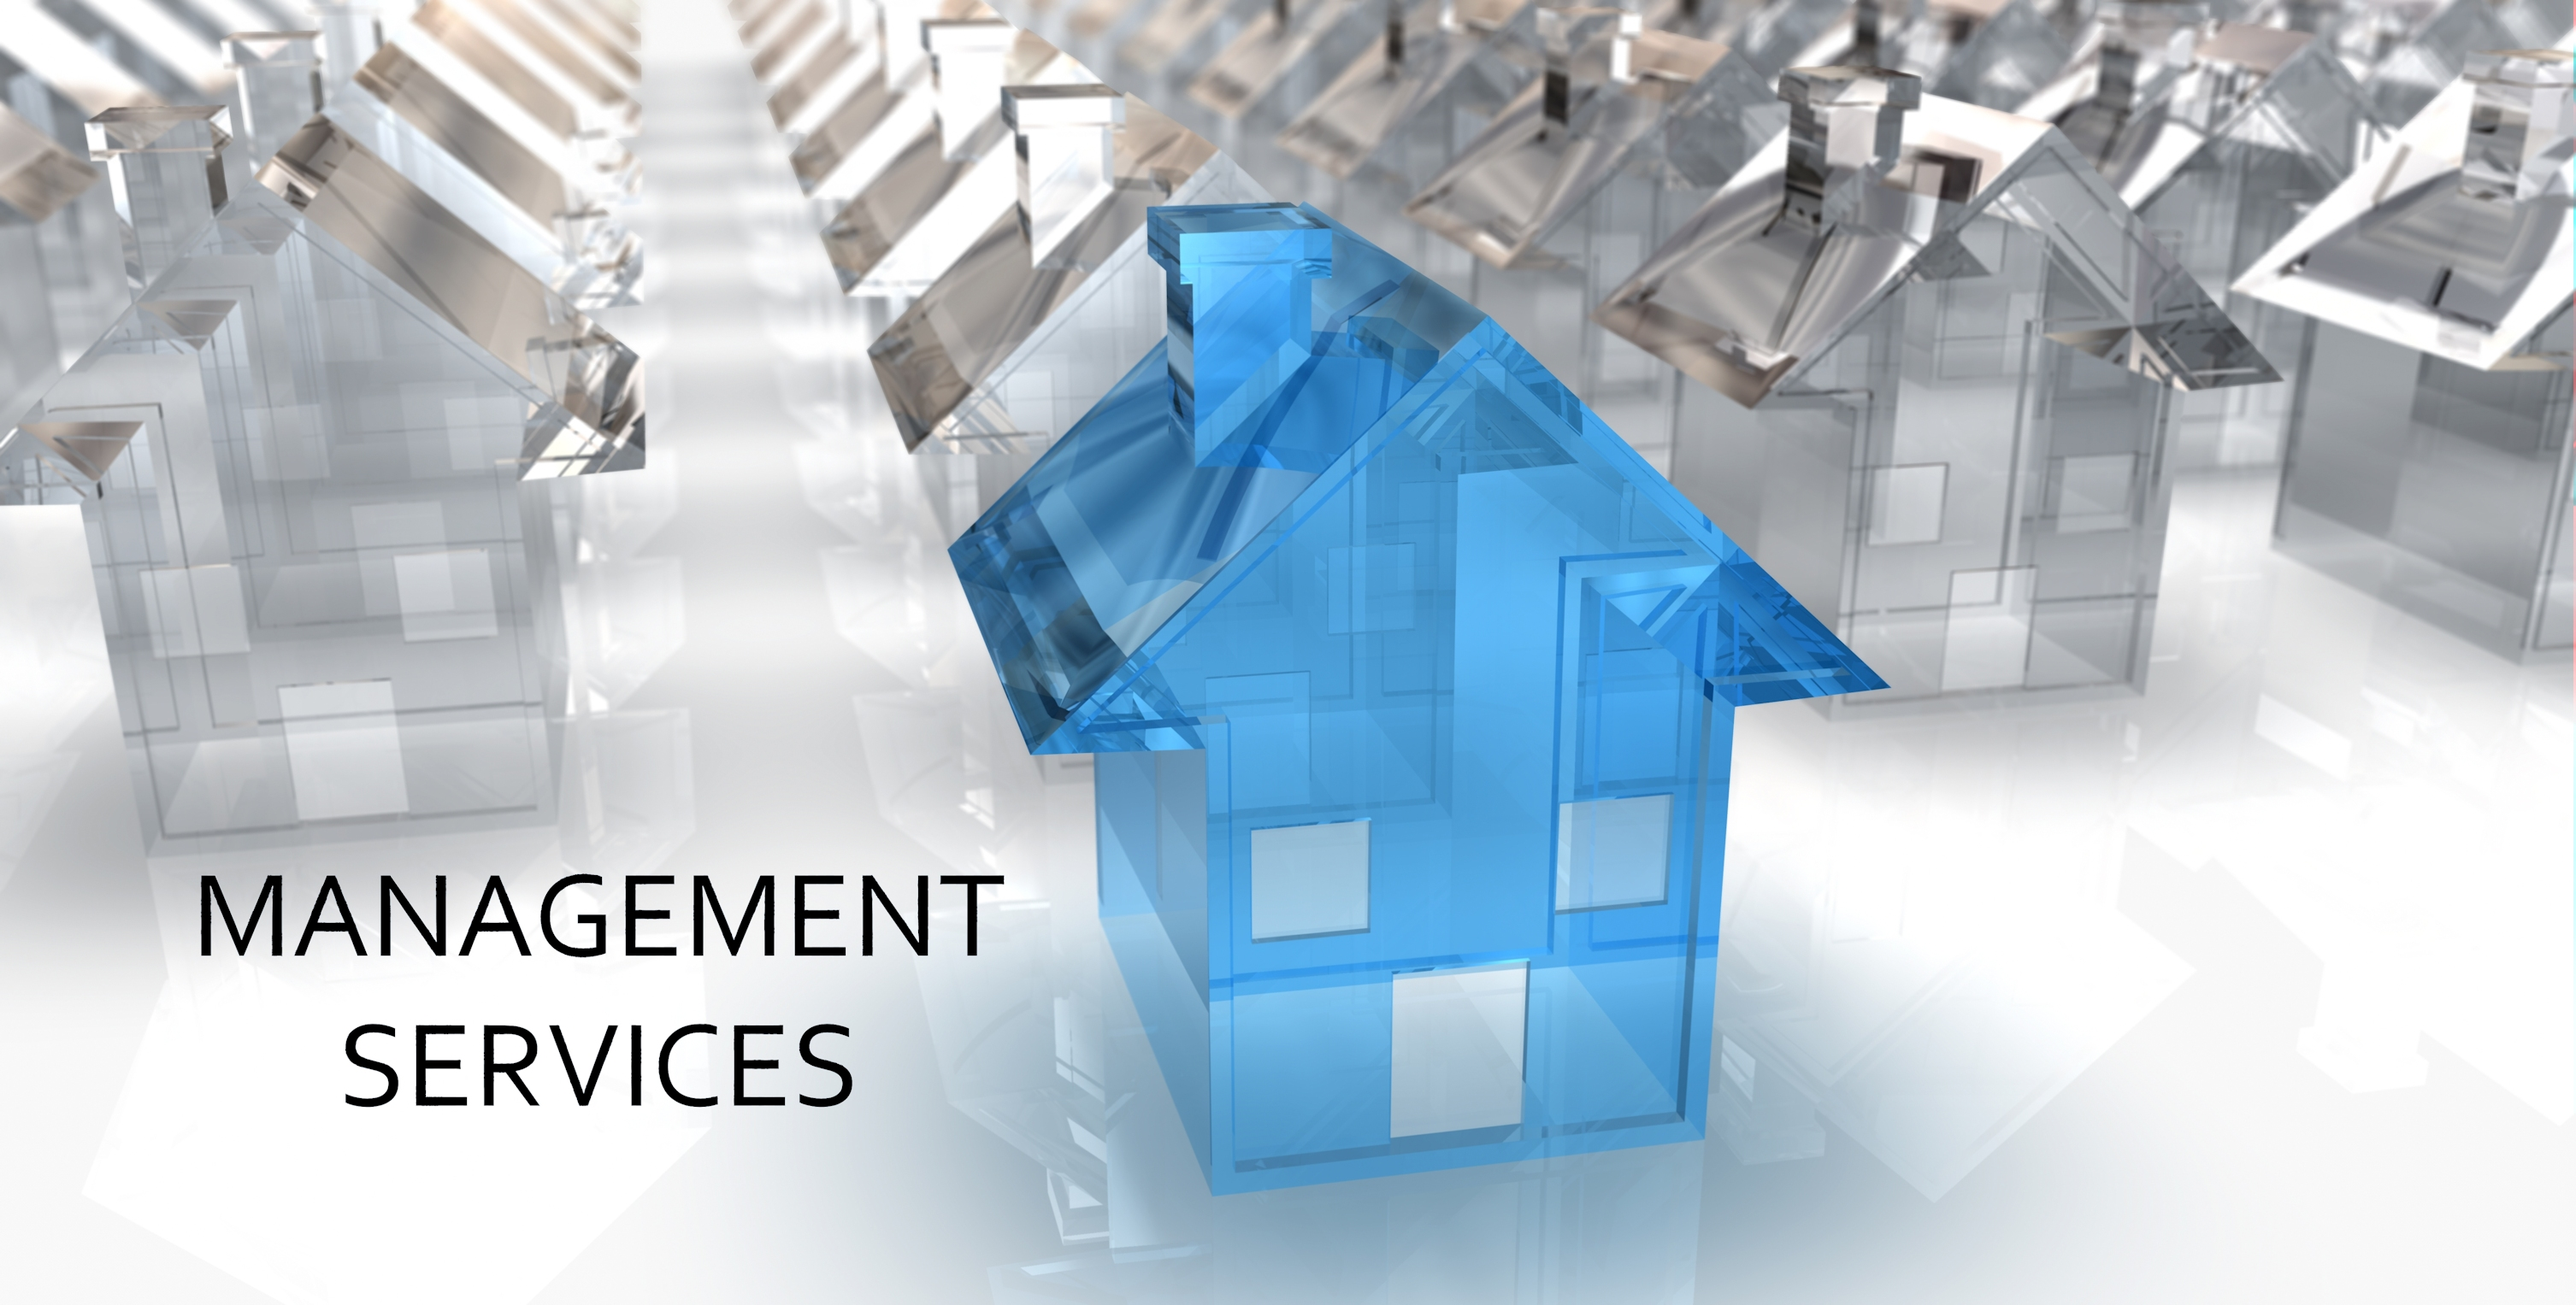
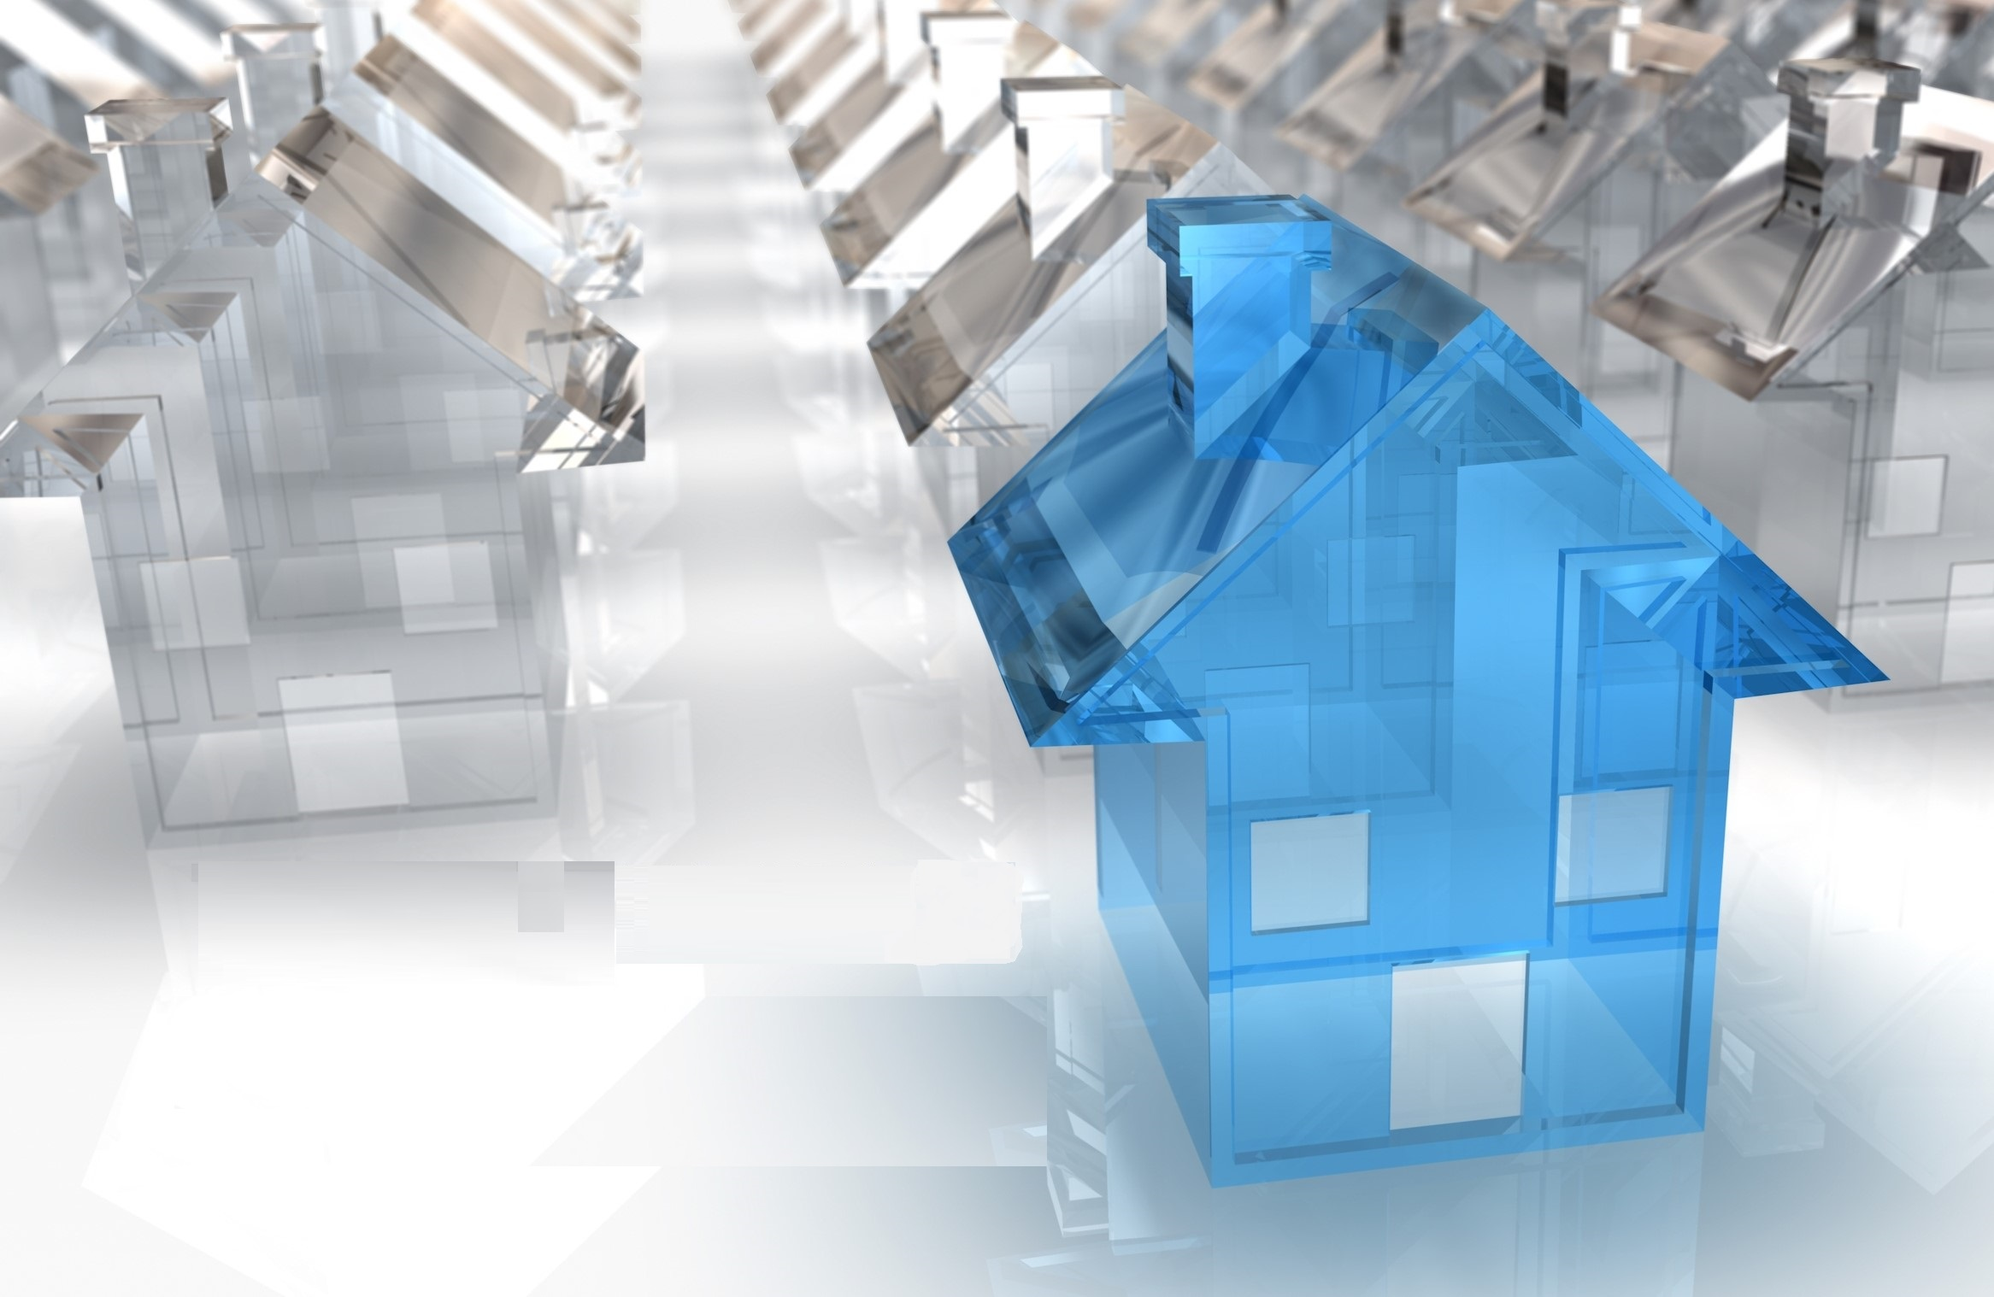
update commit

diff --git a/index.html b/index.html
@@ -22,7 +22,7 @@
             />
           </div>
           <div class="col-sm-8">
-            <h1>Property Management Services</h1>
+            <h1>PROPERTY MANAGEMENT SERVICES</h1>
           </div>
           <div class="col-sm-2" id="navBtn">
             <span><input type="button" id="btnLogin" value="Login"/></span>

diff --git a/Content/site.css b/Content/site.css
@@ -15,8 +15,8 @@ header div#logo > img {
 
 header h1 {
   color: rgb(41, 86, 166);
-  text-shadow: -1px -1px 0 #000, 1px -1px 0 #000, -1px 1px 0 #000,
-    1px 1px 0 #000;
+  text-shadow: -1px -1px 0 #fff, 1px -1px 0 #fff, -1px 1px 0 #fff,
+    1px 1px 0 #fff;
 }
 
 header div input {

diff --git a/currentTimeSheet.html b/currentTimeSheet.html
@@ -22,7 +22,7 @@
             />
           </div>
           <div class="col-sm-8">
-            <h1>Property Management Services</h1>
+            <h1>PROPERTY MANAGEMENT SERVICES</h1>
           </div>
           <div class="col-sm-2" id="navBtn">
             <span

diff --git a/newTimeSheet.html b/newTimeSheet.html
@@ -22,7 +22,7 @@
             />
           </div>
           <div class="col-sm-8">
-            <h1>Property Management Services</h1>
+            <h1>PROPERTY MANAGEMENT SERVICES</h1>
           </div>
           <div class="col-sm-2" id="navBtn">
             <span

diff --git a/personalInfo.html b/personalInfo.html
@@ -22,7 +22,7 @@
             />
           </div>
           <div class="col-sm-8">
-            <h1>Property Management Services</h1>
+            <h1>PROPERTY MANAGEMENT SERVICES</h1>
           </div>
           <div class="col-sm-2" id="navBtn">
             <span

diff --git a/previousTimeSheet.html b/previousTimeSheet.html
@@ -22,7 +22,7 @@
             />
           </div>
           <div class="col-sm-8">
-            <h1>Property Management Services</h1>
+            <h1>PROPERTY MANAGEMENT SERVICES</h1>
           </div>
           <div class="col-sm-2" id="navBtn">
             <span
